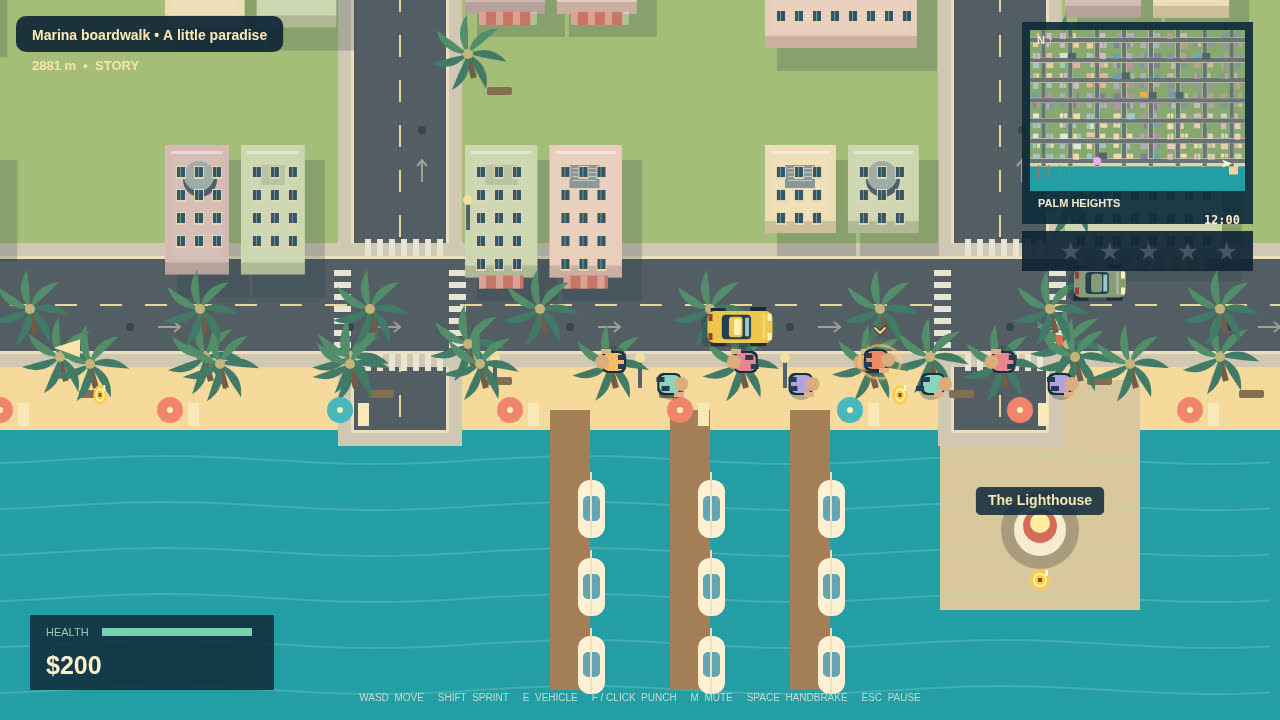
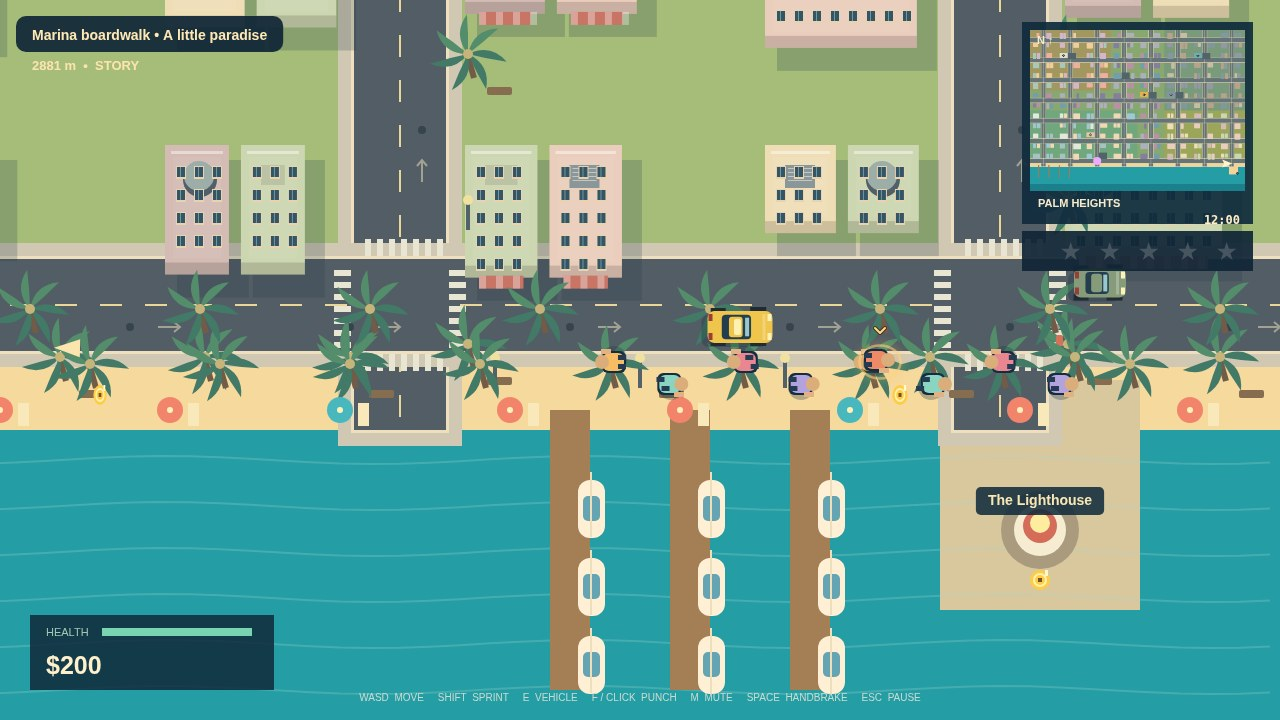
Round 2 polish: tighter cover staging, minimap refinement, mission tuning
- Cover: chase camera zoom .95->1.12, closer framing, police pack tightened;
  speedometer cluster inset 24px from the right frame edge
- Minimap: district tints, deep-water band + shoreline, avenue centrelines,
  landmark letter markers (strengthened in a second pass)
- SHADOW: target car yields to traffic instead of ramming to a stop;
  anti-stall creep after 4s blocked; tail budget 3->4s, lost budget 8->12s
- GILDED/police: bust charge time 2.5->3.5s
- Fairness: car-car damage only on impact>35 (no low-speed grind totals);
  crash crime only reported when the player's car was moving (>40) -
  being rear-ended while stopped is no longer a crime
- All 4 judge screenshots reshot at 1280x720, <=256KiB

diff --git a/game/src/hud.js b/game/src/hud.js
@@ -1,12 +1,48 @@
 import {districtAt} from './world.js';
+import {DISTRICTS} from './config.js';
 export function drawHUD(ctx,world,player,cars,state){
  const x=1030,y=30,size=215,scale=size/4800;
- if(!world.mapCanvas){const m=world.mapCanvas=document.createElement('canvas');m.width=480;m.height=360;const c=m.getContext('2d');c.scale(.1,.1);c.fillStyle='#88a870';c.fillRect(0,0,4800,3600);c.fillStyle='#249da5';c.fillRect(0,3050,4800,550);c.fillStyle='#f2d49b';c.fillRect(0,2965,4800,85);c.fillRect(4440,3000,200,230);for(const r of world.roads){c.fillStyle='#d5c6ab';c.fillRect(r.x-12,r.y-12,r.w+24,r.h+24);c.fillStyle='#657477';c.fillRect(r.x,r.y,r.w,r.h);}for(const b of world.buildings){c.fillStyle=b.color;c.beginPath();c.roundRect(b.x,b.y,b.w,b.h,12);c.fill();}for(const l of world.parkingLots){c.fillStyle='#52646a';c.fillRect(l.x,l.y,l.w,l.h);}for(let x=180;x<1100;x+=230){c.fillStyle='#9c7c5a';c.fillRect(x,3020,25,290);}}
+ if(!world.mapCanvas){const m=world.mapCanvas=document.createElement('canvas');m.width=480;m.height=360;const c=m.getContext('2d');c.scale(.1,.1);c.fillStyle='#88a870';c.fillRect(0,0,4800,3600);
+ const districtTints=['#e2703a','#5b7a99','#3aa79b','#c9a227'];
+ c.globalAlpha=.3;
+ for(const [i,tint] of districtTints.entries()){
+  const d=DISTRICTS[i];
+  c.fillStyle=tint;
+  c.fillRect(d.x,d.y,d.w,d.h);
+ }
+ c.globalAlpha=1;
+ c.fillStyle='#249da5';c.fillRect(0,3050,4800,550);
+ c.fillStyle='#1b7f8c';c.fillRect(0,3450,4800,150);
+ c.fillStyle='#ffe9bb';c.fillRect(0,3050,4800,8);
+ c.fillStyle='#f2d49b';c.fillRect(0,2965,4800,85);c.fillRect(4440,3000,200,230);for(const r of world.roads){c.fillStyle='#d5c6ab';c.fillRect(r.x-12,r.y-12,r.w+24,r.h+24);c.fillStyle='#657477';c.fillRect(r.x,r.y,r.w,r.h);}
+ c.fillStyle='#f5e3ae';
+ c.globalAlpha=.6;
+ for(let avenueX=300;avenueX<=4500;avenueX+=600)c.fillRect(avenueX-5,0,10,3050);
+ c.globalAlpha=1;
+ for(const b of world.buildings){c.fillStyle=b.color;c.beginPath();c.roundRect(b.x,b.y,b.w,b.h,12);c.fill();}for(const l of world.parkingLots){c.fillStyle='#52646a';c.fillRect(l.x,l.y,l.w,l.h);}for(let x=180;x<1100;x+=230){c.fillStyle='#9c7c5a';c.fillRect(x,3020,25,290);}
+ const landmarkLetters={CASINO:'C','TORQUE & SONS':'T','HOSPITAL +':'H',POLICE:'P','BAY MART':'M',LIGHTHOUSE:'L'};
+ c.font='bold 46px sans-serif';
+ c.textAlign='center';
+ c.textBaseline='middle';
+ for(const l of world.landmarks){
+  const markerX=l.x+89,markerY=l.y+54;
+  c.fillStyle='#20303a';
+  c.beginPath();
+  c.moveTo(markerX,markerY-36);
+  c.lineTo(markerX+36,markerY);
+  c.lineTo(markerX,markerY+36);
+  c.lineTo(markerX-36,markerY);
+  c.closePath();
+  c.fill();
+  c.fillStyle='#ffe9bb';
+  c.fillText(landmarkLetters[l.sign],markerX,markerY);
+ }
+ }
  ctx.fillStyle='#102c3ded';ctx.fillRect(x-8,y-8,size+16,202);ctx.save();ctx.beginPath();ctx.rect(x,y,size,161);ctx.clip();ctx.drawImage(world.mapCanvas,x,y,size,161);ctx.translate(x,y);ctx.scale(scale,scale);
  ctx.translate(player.x,player.y);ctx.rotate(player.car?player.car.angle:player.angle);ctx.fillStyle='#fff5cf';ctx.beginPath();ctx.moveTo(0,-135);ctx.lineTo(90,90);ctx.lineTo(0,45);ctx.lineTo(-90,90);ctx.fill();ctx.restore();
  ctx.textAlign='left';ctx.font='bold 11px sans-serif';ctx.fillStyle='#f5eacb';ctx.fillText('N ↑',x+7,y+14);ctx.font='bold 11px sans-serif';ctx.fillText(districtAt(player.x,player.y).name,x+8,y+177);
  ctx.fillStyle='#112b3bdd';ctx.fillRect(30,615,244,75);ctx.fillStyle='#a3c7b5';ctx.font='11px sans-serif';ctx.fillText('HEALTH',46,636);ctx.fillStyle='#34515a';ctx.fillRect(102,628,150,8);ctx.fillStyle='#78d4b1';ctx.fillRect(102,628,150*player.health/100,8);ctx.font='bold 25px sans-serif';ctx.fillStyle='#fff0cc';ctx.fillText('$'+player.cash.toLocaleString(),46,674);
- if(player.car){ctx.textAlign='right';ctx.font='bold 38px sans-serif';ctx.fillText(Math.round(Math.abs(player.car.speed)*.26).toString().padStart(3,'0'),1238,644);ctx.font='12px sans-serif';ctx.fillText('KM/H  /  '+player.car.name.toUpperCase(),1238,667);ctx.fillStyle='#273f4b';ctx.fillRect(1090,679,148,4);ctx.fillStyle='#e6b46d';ctx.fillRect(1090,679,148*(1-player.car.damage/100),4);}
+ if(player.car){ctx.textAlign='right';ctx.font='bold 38px sans-serif';ctx.fillText(Math.round(Math.abs(player.car.speed)*.26).toString().padStart(3,'0'),1214,644);ctx.font='12px sans-serif';ctx.fillText('KM/H  /  '+player.car.name.toUpperCase(),1214,667);ctx.fillStyle='#273f4b';ctx.fillRect(1066,679,148,4);ctx.fillStyle='#e6b46d';ctx.fillRect(1066,679,148*(1-player.car.damage/100),4);}
  if(state.banner>0){ctx.globalAlpha=Math.min(1,state.banner);ctx.textAlign='center';ctx.fillStyle='#fff0cb';ctx.font='bold 23px sans-serif';ctx.fillText(state.district,770,55);ctx.font='10px sans-serif';ctx.fillText('P A L M E R A   B A Y',770,77);ctx.globalAlpha=1;}
  ctx.textAlign='center';ctx.font='13px sans-serif';ctx.fillStyle='#fff0cb';if(state.message)ctx.fillText(state.message,640,652);else if(!player.car&&cars.some(c=>Math.hypot(c.x-player.x,c.y-player.y)<76))ctx.fillText('E  /  ENTER     Enter vehicle',640,652);
  ctx.textAlign='center';ctx.fillStyle='#c9dbd1';ctx.font='10px sans-serif';ctx.fillText('WASD  MOVE     SHIFT  SPRINT     E  VEHICLE     F / CLICK  PUNCH     M  MUTE     SPACE  HANDBRAKE     ESC  PAUSE',640,701);
@@ -41,8 +77,8 @@ export function drawSystems(ctx,g){const {state:s,player:p,wanted:w,missions:m,c
  ctx.font='bold 13px sans-serif';
  if(s.target){const distance=Math.round(Math.hypot(p.x-s.target.x,p.y-s.target.y));ctx.fillStyle='#fce4ae';ctx.fillText(distance+' m  •  '+(m.current?'DELIA VOSS':'STORY'),stackLeft+16,stackY+12);stackY+=24;const x=(s.target.x-camera.x)*camera.zoom+640,y=(s.target.y-camera.y)*camera.zoom+360;if(x<35||x>1245||y<100||y>600){const a=Math.atan2(y-360,x-640),k=Math.min(570/Math.max(.001,Math.abs(Math.cos(a))),240/Math.max(.001,Math.abs(Math.sin(a))));ctx.save();ctx.translate(640+Math.cos(a)*k,360+Math.sin(a)*k);ctx.rotate(a);ctx.beginPath();ctx.moveTo(16,0);ctx.lineTo(-10,-9);ctx.lineTo(-10,9);ctx.fill();ctx.restore();}}
  if(m.timer!==null&&m.current){ctx.fillStyle='#172e3c';ctx.fillRect(stackLeft+16,stackY+7,260,8);ctx.fillStyle='#efbe78';ctx.fillRect(stackLeft+16,stackY+7,260*Math.max(0,m.timer/m.maxTimer),8);ctx.fillStyle='#ffe6bb';ctx.font='bold 22px sans-serif';ctx.fillText(Math.ceil(m.timer)+'s',305,stackY+18);stackY+=26;}
- if(m.current==='shadow'){ctx.font='bold 13px sans-serif';ctx.fillStyle='#ffe1a1';ctx.fillText('TAIL  '+Math.round(Math.max(m.tail/3,m.lost/8)*100)+'%',stackLeft+16,stackY+12);}
- if(w.bust>0){ctx.textAlign='center';ctx.fillStyle='#ff8690';ctx.font='bold 25px sans-serif';ctx.fillText('BUSTED — GET MOVING',640,135);ctx.fillRect(490,150,300*w.bust/2.5,8);}
+ if(m.current==='shadow'){ctx.font='bold 13px sans-serif';ctx.fillStyle='#ffe1a1';ctx.fillText('TAIL  '+Math.round(Math.max(m.tail/4,m.lost/12)*100)+'%',stackLeft+16,stackY+12);}
+ if(w.bust>0){ctx.textAlign='center';ctx.fillStyle='#ff8690';ctx.font='bold 25px sans-serif';ctx.fillText('BUSTED — GET MOVING',640,135);ctx.fillRect(490,150,300*w.bust/3.5,8);}
  ctx.textAlign='center';if(s.toast){ctx.fillStyle='#152f3de8';ctx.fillRect(360,460,560,42);ctx.fillStyle='#ffdc76';ctx.font='bold 18px sans-serif';ctx.fillText(s.toast,640,488);}const fare=g.activities.taxi;if(p.car?.type==='taxi'&&!m.current){ctx.fillStyle='#102637ed';ctx.fillRect(30,120,560,44);ctx.fillStyle='#ffdc76';ctx.textAlign='left';ctx.font='14px sans-serif';ctx.fillText(fare?.phase==='ride'?'TAXI — Deliver passenger • '+Math.ceil(fare.timer)+'s':fare?.phase==='boarding'?'TAXI — Passenger boarding. Stay stopped.':'TAXI — Find the gold $ and stop within 40m to pick up.',46,147);}ctx.textAlign='center';if(s.prompt){ctx.fillStyle='#122c3de8';ctx.fillRect(380,628,520,38);ctx.fillStyle='#ffe7b3';ctx.font='16px sans-serif';ctx.fillText(s.prompt,640,653);}
  if(m.dialogue.length){const l=m.dialogue[0];ctx.fillStyle='#091d30e8';ctx.fillRect(280,535,720,72);ctx.textAlign='left';ctx.fillStyle='#efb96e';ctx.font='bold 13px sans-serif';ctx.fillText(l.who+'   /   E TO SKIP',300,557);ctx.fillStyle='#f6edda';ctx.font='16px sans-serif';ctx.fillText(l.text,300,585);}
  if(s.splash){ctx.textAlign='center';ctx.fillStyle='#102b3de8';ctx.fillRect(160,270,960,125);ctx.fillStyle='#ffe1a1';ctx.font='bold 38px sans-serif';ctx.fillText(s.splash.title,640,320);ctx.fillStyle='#e9e3cf';ctx.font='17px sans-serif';ctx.fillText(s.splash.text,640,358);}

diff --git a/game/src/missions.js b/game/src/missions.js
@@ -11,11 +11,28 @@ export const STORY=[
 ];
 export function initMissions(g,saved){g.missions={current:null,objectiveIndex:0,timer:null,nextMission:Math.min(6,saved?.nextMission||0),storyComplete:!!saved?.storyComplete,dialogue:[],lineTime:0};g.say=lines=>{g.missions.dialogue.push(...(lines||[]));};g.failMission=reason=>{const m=g.missions;if(!m.current)return;m.current=null;m.dialogue=[];g.audio?.play('failed');g.state.splash={title:'MISSION FAILED',text:reason,time:4};cleanup(g);saveGame(g);};g.startMission=()=>{const m=g.missions,def=STORY[m.nextMission];if(!def)return;g.cancelTaxi?.();cleanup(g);m.current=def.id;m.objectiveIndex=0;m.tail=0;m.lost=0;g.state.splash={title:def.name,text:def.brief,time:2.5};enterStep(g);};}
 function cleanup(g){for(const c of [...g.cars])if(c.missionCar||c.target){if(g.player.car===c)g.player.car=null;g.cars.splice(g.cars.indexOf(c),1);}g.missions.car=null;g.missions.target=null;g.player.passengers=0;}
-function enterStep(g){const m=g.missions,s=STORY[m.nextMission].steps[m.objectiveIndex];m.timer=s.timer??null;m.maxTimer=m.timer;g.say(s.linesBefore);if(s.heat&&!s.car){g.wanted.level=s.heat;g.wanted.heat=s.heat*35;}if(s.sunset)g.state.timeOfDay=.78;if(s.car){const c=createCar(s.car,s.at.x,s.at.y);Object.assign(c,{missionCar:true,owned:true,label:s.car==='sedan'?"DELIA’S REGENT":'HOT METAL'});g.cars.push(c);m.car=c;}if(s.targetCar){const c=createCar('sports',2300,1575,Math.PI/2);c.target=true;c.label='SHADOW';m.target=c;m.route=[at(2700,1575),at(2700,2475),at(1500,2475),at(1500,2925)];m.routeIndex=0;c.ai=dt=>{const t=m.route[m.routeIndex];if(!t){c.speed=0;return;}const dx=t.x-c.x,dy=t.y-c.y;c.angle=Math.atan2(dx,-dy);c.speed=100;if(Math.hypot(dx,dy)<25)m.routeIndex++;};g.cars.push(c);}}
+function enterStep(g){const m=g.missions,s=STORY[m.nextMission].steps[m.objectiveIndex];m.timer=s.timer??null;m.maxTimer=m.timer;g.say(s.linesBefore);if(s.heat&&!s.car){g.wanted.level=s.heat;g.wanted.heat=s.heat*35;}if(s.sunset)g.state.timeOfDay=.78;if(s.car){const c=createCar(s.car,s.at.x,s.at.y);Object.assign(c,{missionCar:true,owned:true,label:s.car==='sedan'?"DELIA’S REGENT":'HOT METAL'});g.cars.push(c);m.car=c;}if(s.targetCar){const c=createCar('sports',2300,1575,Math.PI/2);c.target=true;c.label='SHADOW';m.target=c;m.route=[at(2700,1575),at(2700,2475),at(1500,2475),at(1500,2925)];m.routeIndex=0;c.ai=dt=>{const t=m.route[m.routeIndex];if(!t){c.speed=0;return;}const dx=t.x-c.x,dy=t.y-c.y;c.angle=Math.atan2(dx,-dy);
+ const forwardX=Math.sin(c.angle),forwardY=-Math.cos(c.angle);
+ let desired=100;
+ for(const other of g.cars){
+  if(other===c)continue;
+  const offsetX=other.x-c.x,offsetY=other.y-c.y;
+  const ahead=offsetX*forwardX+offsetY*forwardY;
+  const lateral=Math.abs(offsetX*forwardY-offsetY*forwardX);
+  if(ahead>0&&ahead<75&&lateral<26){
+   desired=Math.max(0,other.speed);
+   break;
+  }
+ }
+ c.stall=desired<40&&Math.abs(c.speed)<12?(c.stall??0)+dt:0;
+ if(c.stall>4)desired=Math.max(desired,35);
+ const maxSpeedChange=260*dt;
+ c.speed+=Math.max(-maxSpeedChange,Math.min(maxSpeedChange,desired-c.speed));
+ if(Math.hypot(dx,dy)<25)m.routeIndex++;};g.cars.push(c);}}
 export function missionTarget(g){const m=g.missions;if(m.current){const s=STORY[m.nextMission].steps[m.objectiveIndex];return s.type==='follow'?m.target:s.type==='pickup'&&m.car?m.car:s.at;}return STORY[m.nextMission]?.start;}
 export function updateMissions(g,dt){const m=g.missions;if(m.dialogue.length){m.lineTime+=dt;if(m.lineTime>3.2){m.dialogue.shift();m.lineTime=0;}}const target=missionTarget(g);g.state.target=target;g.state.prompt='';g.state.requiresMissionCar=!!(m.current&&STORY[m.nextMission].steps[m.objectiveIndex]?.car);g.state.companions=[];if(!m.current){g.state.objective=m.storyComplete?'Free roam • Palmera Bay is yours':'Meet Delia Voss';if(target&&Math.hypot(target.x-g.player.x,target.y-g.player.y)<95)g.state.prompt='E — Start: '+STORY[m.nextMission].name;return;}
  const def=STORY[m.nextMission],s=def.steps[m.objectiveIndex],p=g.player;if(s.crew||(s.car==='sedan'))g.state.companions=Array.from({length:s.crew||1},(_,i)=>({x:s.at.x+45+i*23,y:s.at.y+10,angle:Math.PI/2,walk:0,shirt:i?'#8da5c9':'#b994d6'}));g.state.objective=s.label;if(m.timer!==null){m.timer-=dt;if(m.timer<=0)return g.failMission('Time ran out');}if(m.car?.damage>=100)return g.failMission('Mission vehicle destroyed');let done=false;const d=Math.hypot(target.x-p.x,target.y-p.y);
- if(s.type==='follow'){if(d<70)m.tail+=dt;else m.tail=Math.max(0,m.tail-dt);if(d>420)m.lost+=dt;else m.lost=0;if(m.tail>3)return g.failMission('Your tail was spotted');if(m.lost>8)return g.failMission('Target lost');done=m.routeIndex>=m.route.length&&d<420;}
+ if(s.type==='follow'){if(d<70)m.tail+=dt;else m.tail=Math.max(0,m.tail-dt);if(d>420)m.lost+=dt;else m.lost=0;if(m.tail>4)return g.failMission('Your tail was spotted');if(m.lost>12)return g.failMission('Target lost');done=m.routeIndex>=m.route.length&&d<420;}
  else if(s.type==='escape')done=g.wanted.level===0;
  else if(s.car)done=p.car===m.car;
  else done=d<(s.radius||85)&&(!s.crew||!!p.car)&&(!m.car||s.type!=='deliver'||p.car===m.car);

diff --git a/game/src/police.js b/game/src/police.js
@@ -77,11 +77,11 @@ export function initPolice(g){const wanted={level:0,heat:0,state:'clear',lastSee
  g.reportCrime=(kind,x=g.player.x,y=g.player.y)=>{if(kind==='punch')for(const p of g.peds)if(Math.hypot(p.x-x,p.y-y)<80){p.flee=3;p.away=Math.atan2(p.y-y,p.x-x);}if(kind==='carTheft'&&!g.peds.some(p=>Math.hypot(p.x-x,p.y-y)<260)&&!g.police.some(p=>Math.hypot(p.x-x,p.y-y)<260))return;const points={carTheft:35,theft:35,ped:40,police:35,traffic:12,punch:30,assault:35,vandalism:18};wanted.heat=Math.min(175,wanted.heat+(points[kind]||35));wanted.level=Math.min(5,Math.floor(wanted.heat/35));wanted.lastSeen=0;};
  g.clearWanted=()=>{Object.assign(wanted,{level:0,heat:0,state:'clear',bust:0,lastSeen:0});for(const c of [...g.police])if(!c.patrol){g.cars.splice(g.cars.indexOf(c),1);g.police.splice(g.police.indexOf(c),1);}};
  g.damage=(n)=>{const p=g.player,absorbed=Math.min(p.armor,n);p.armor-=absorbed;p.health-=n-absorbed;p.lastDamage=g.state.elapsed;};
- g.world.onCrash=(a,b,impact)=>{const soundDistance=Math.hypot(a.x-g.player.x,a.y-g.player.y);if(impact>35&&soundDistance<600)g.audio?.play('collision',impact/300*(1-soundDistance/600));if(g.activities?.taxi?.phase==='ride'&&(a===g.player.car||b===g.player.car))g.activities.taxi.clean=false;for(const p of g.peds)if(Math.hypot(p.x-a.x,p.y-a.y)<160){p.flee=3;p.away=Math.atan2(p.y-a.y,p.x-a.x);}if(!g.player.car||(a!==g.player.car&&b!==g.player.car))return;if(g.state.elapsed<(g.state.crashCooldown||0))return;g.state.crashCooldown=g.state.elapsed+1;if(b)g.reportCrime(a.police||b.police?'police':'traffic');if(impact>160)g.damage((impact-150)*.055);};
+ g.world.onCrash=(a,b,impact)=>{const soundDistance=Math.hypot(a.x-g.player.x,a.y-g.player.y);if(impact>35&&soundDistance<600)g.audio?.play('collision',impact/300*(1-soundDistance/600));if(g.activities?.taxi?.phase==='ride'&&(a===g.player.car||b===g.player.car))g.activities.taxi.clean=false;for(const p of g.peds)if(Math.hypot(p.x-a.x,p.y-a.y)<160){p.flee=3;p.away=Math.atan2(p.y-a.y,p.x-a.x);}if(!g.player.car||(a!==g.player.car&&b!==g.player.car))return;if(g.state.elapsed<(g.state.crashCooldown||0))return;g.state.crashCooldown=g.state.elapsed+1;if(b&&Math.abs(g.player.car.speed)>40)g.reportCrime(a.police||b.police?'police':'traffic');if(impact>160)g.damage((impact-150)*.055);};
 }
 export function reportCrime(kind,x,y){window.__game.reportCrime(kind,x,y);}
 export function updatePolice(g,dt){const w=g.wanted,p=g.player;const seen=g.police.some(c=>Math.hypot(c.x-p.x,c.y-p.y)<460);w.state=w.level?(seen?'pursuit':'searching'):'clear';if(w.level){if(seen)w.lastSeen=0;else{w.lastSeen+=dt;w.heat=Math.max(w.level*35,w.heat-dt*.4);if(w.lastSeen>3.5+w.level*2.5){w.level--;w.heat=w.level*35;w.lastSeen=0;}}while(g.police.filter(c=>!c.patrol).length<w.level)g.spawnPolice();}
- const close=w.level&&g.police.some(c=>Math.hypot(c.x-p.x,c.y-p.y)<70);w.bust=Math.max(0,Math.min(2.5,w.bust+((close&&(!p.car||Math.abs(p.car.speed)<25))?dt:-dt*1.7)));if(close&&!p.car){const c=g.police.find(c=>Math.hypot(c.x-p.x,c.y-p.y)<70);const d=Math.hypot(p.x-c.x,p.y-c.y)||1;if(d<32)moveWithSlide(g.world,p,(p.x-c.x)/d*60*dt,(p.y-c.y)/d*60*dt,12);c.speed*=.92;}
- if(w.bust>=2.5)g.endLife('busted');if(p.health<=0)g.endLife('wasted');if(g.state.elapsed-p.lastDamage>10&&p.health<50)p.health=Math.min(50,p.health+dt*1.8);
+ const close=w.level&&g.police.some(c=>Math.hypot(c.x-p.x,c.y-p.y)<70);w.bust=Math.max(0,Math.min(3.5,w.bust+((close&&(!p.car||Math.abs(p.car.speed)<25))?dt:-dt*1.7)));if(close&&!p.car){const c=g.police.find(c=>Math.hypot(c.x-p.x,c.y-p.y)<70);const d=Math.hypot(p.x-c.x,p.y-c.y)||1;if(d<32)moveWithSlide(g.world,p,(p.x-c.x)/d*60*dt,(p.y-c.y)/d*60*dt,12);c.speed*=.92;}
+ if(w.bust>=3.5)g.endLife('busted');if(p.health<=0)g.endLife('wasted');if(g.state.elapsed-p.lastDamage>10&&p.health<50)p.health=Math.min(50,p.health+dt*1.8);
  if(!w.level)for(const c of [...g.police])if(!c.patrol&&Math.hypot(c.x-p.x,c.y-p.y)>500){g.cars.splice(g.cars.indexOf(c),1);g.police.splice(g.police.indexOf(c),1);}
 }

diff --git a/game/src/shots.js b/game/src/shots.js
@@ -10,10 +10,10 @@ export function stageShot(name,state,player,cars,camera,g){
  if(name==='chase'||name==='drive'){
  state.timeOfDay=.76;drive(pose('sports',2550,1597,'Neon Avenue (y=1575)',{color:'#ff863e',speed:380}));
  pose('sedan',2400,1553,'Neon Avenue (y=1575)',{police:true,pursuing:true,color:'#eee9dc',speed:370});
- pose('sedan',2240,1597,'Neon Avenue (y=1575)',{police:true,pursuing:true,color:'#eee9dc',speed:370});
+ pose('sedan',2320,1597,'Neon Avenue (y=1575)',{police:true,pursuing:true,color:'#eee9dc',speed:370});
  pose('sedan',2050,1553,'Neon Avenue (y=1575)',{police:true,pursuing:true,color:'#eee9dc',speed:365});
  pose('compact',2840,1553,'Neon Avenue (y=1575)',{color:'#69c9c1',speed:200});
- Object.assign(g.wanted,{level:3,heat:105,state:'pursuit'});state.target={x:3070,y:1597};state.objective='Lose the police — protect the cargo';state.missionActive=true;Object.assign(camera,{x:2520,y:1540,zoom:.95,rotation:-.10});
+ Object.assign(g.wanted,{level:3,heat:105,state:'pursuit'});state.target={x:3070,y:1597};state.objective='Lose the police — protect the cargo';state.missionActive=true;Object.assign(camera,{x:2545,y:1560,zoom:1.12,rotation:-.10});
  }else if(name==='mission'){
  drive(pose('sports',4020,2497,'Palm Heights Boulevard (y=2475)',{color:'#f48357',speed:240}));pose('sedan',4440,2453,'Palm Heights Boulevard (y=2475)',{speed:150});state.target={x:4270,y:2475};state.missionActive=true;state.objective='PACKAGE RUN — Deliver to the Palm Heights villa';Object.assign(g.missions,{current:'package-run',nextMission:1,objectiveIndex:1,timer:118,maxTimer:150,dialogue:[{who:'DELIA',text:"Keep moving, Jax. The villa is waiting. Don't bring company."}]});Object.assign(camera,{x:4100,y:2470,zoom:.95});
  }else if(name==='foot'){

diff --git a/game/src/entities.js b/game/src/entities.js
@@ -83,7 +83,7 @@ export function updateCars(cars,player,input,world,dt){
   if(moveWithSlide(world,c,c.vx*dt,c.vy*dt,Math.max(c.w/2,22))){world.onCrash?.(c,null,Math.abs(c.speed));c.damage=Math.min(100,c.damage+Math.abs(c.speed)*.025);c.speed*=-.3;c.vx*=-.25;c.vy*=-.25;}
   movement.push(dt>0?Math.hypot(c.x-previousX,c.y-previousY)/dt:0);
  }
- for(let i=0;i<cars.length;i++)for(let j=i+1;j<cars.length;j++){const a=cars[i],b=cars[j],dx=b.x-a.x,dy=b.y-a.y,d=Math.hypot(dx,dy),r=(a.h+b.h)*.37;if(d>0&&d<r){const nx=dx/d,ny=dy/d,p=(r-d)/2;moveWithSlide(world,a,-nx*p,-ny*p,22);moveWithSlide(world,b,nx*p,ny*p,22);const impact=Math.hypot(a.vx-b.vx,a.vy-b.vy);if(impact>35)world.onCrash?.(a,b,impact);a.damage=Math.min(100,a.damage+impact*.012);b.damage=Math.min(100,b.damage+impact*.012);a.speed*=-.22;b.speed*=-.22;}}
+ for(let i=0;i<cars.length;i++)for(let j=i+1;j<cars.length;j++){const a=cars[i],b=cars[j],dx=b.x-a.x,dy=b.y-a.y,d=Math.hypot(dx,dy),r=(a.h+b.h)*.37;if(d>0&&d<r){const nx=dx/d,ny=dy/d,p=(r-d)/2;moveWithSlide(world,a,-nx*p,-ny*p,22);moveWithSlide(world,b,nx*p,ny*p,22);const impact=Math.hypot(a.vx-b.vx,a.vy-b.vy);if(impact>35)world.onCrash?.(a,b,impact);if(impact>35){a.damage=Math.min(100,a.damage+impact*.012);b.damage=Math.min(100,b.damage+impact*.012);}a.speed*=-.22;b.speed*=-.22;}}
  for(let i=cars.length-1;i>=0;i--){
   const c=cars[i];
   if(c===player.car||(!c.traffic&&!c.police))continue;
